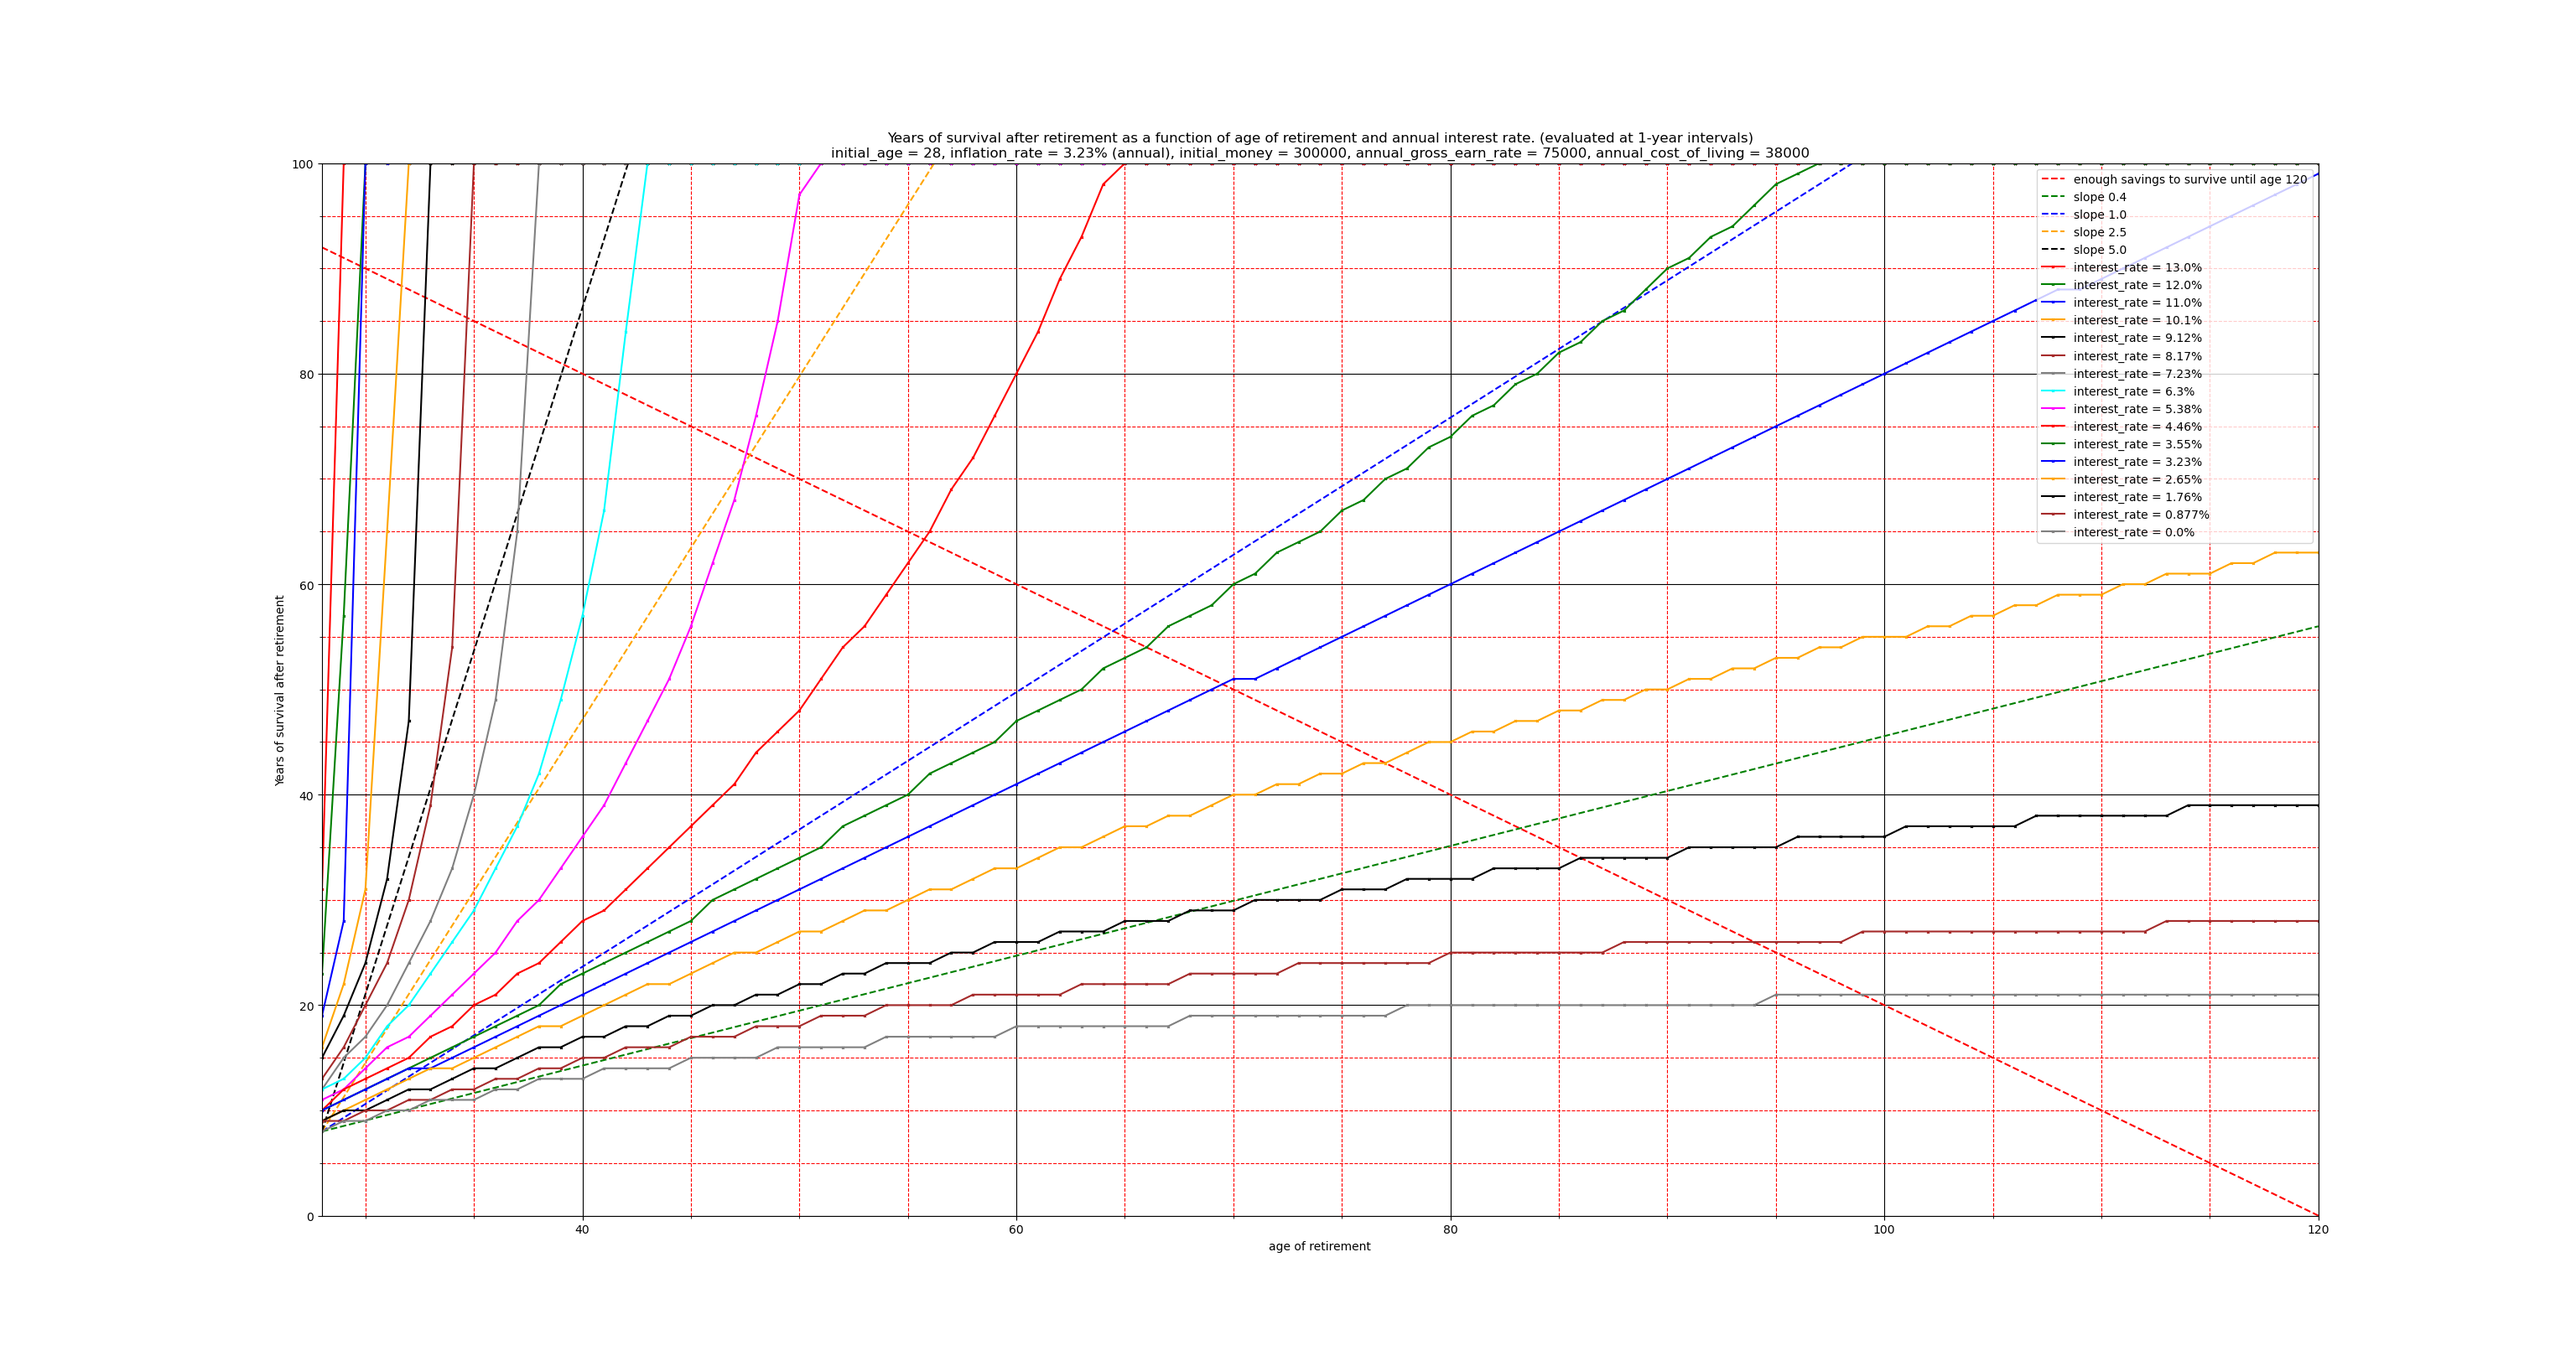
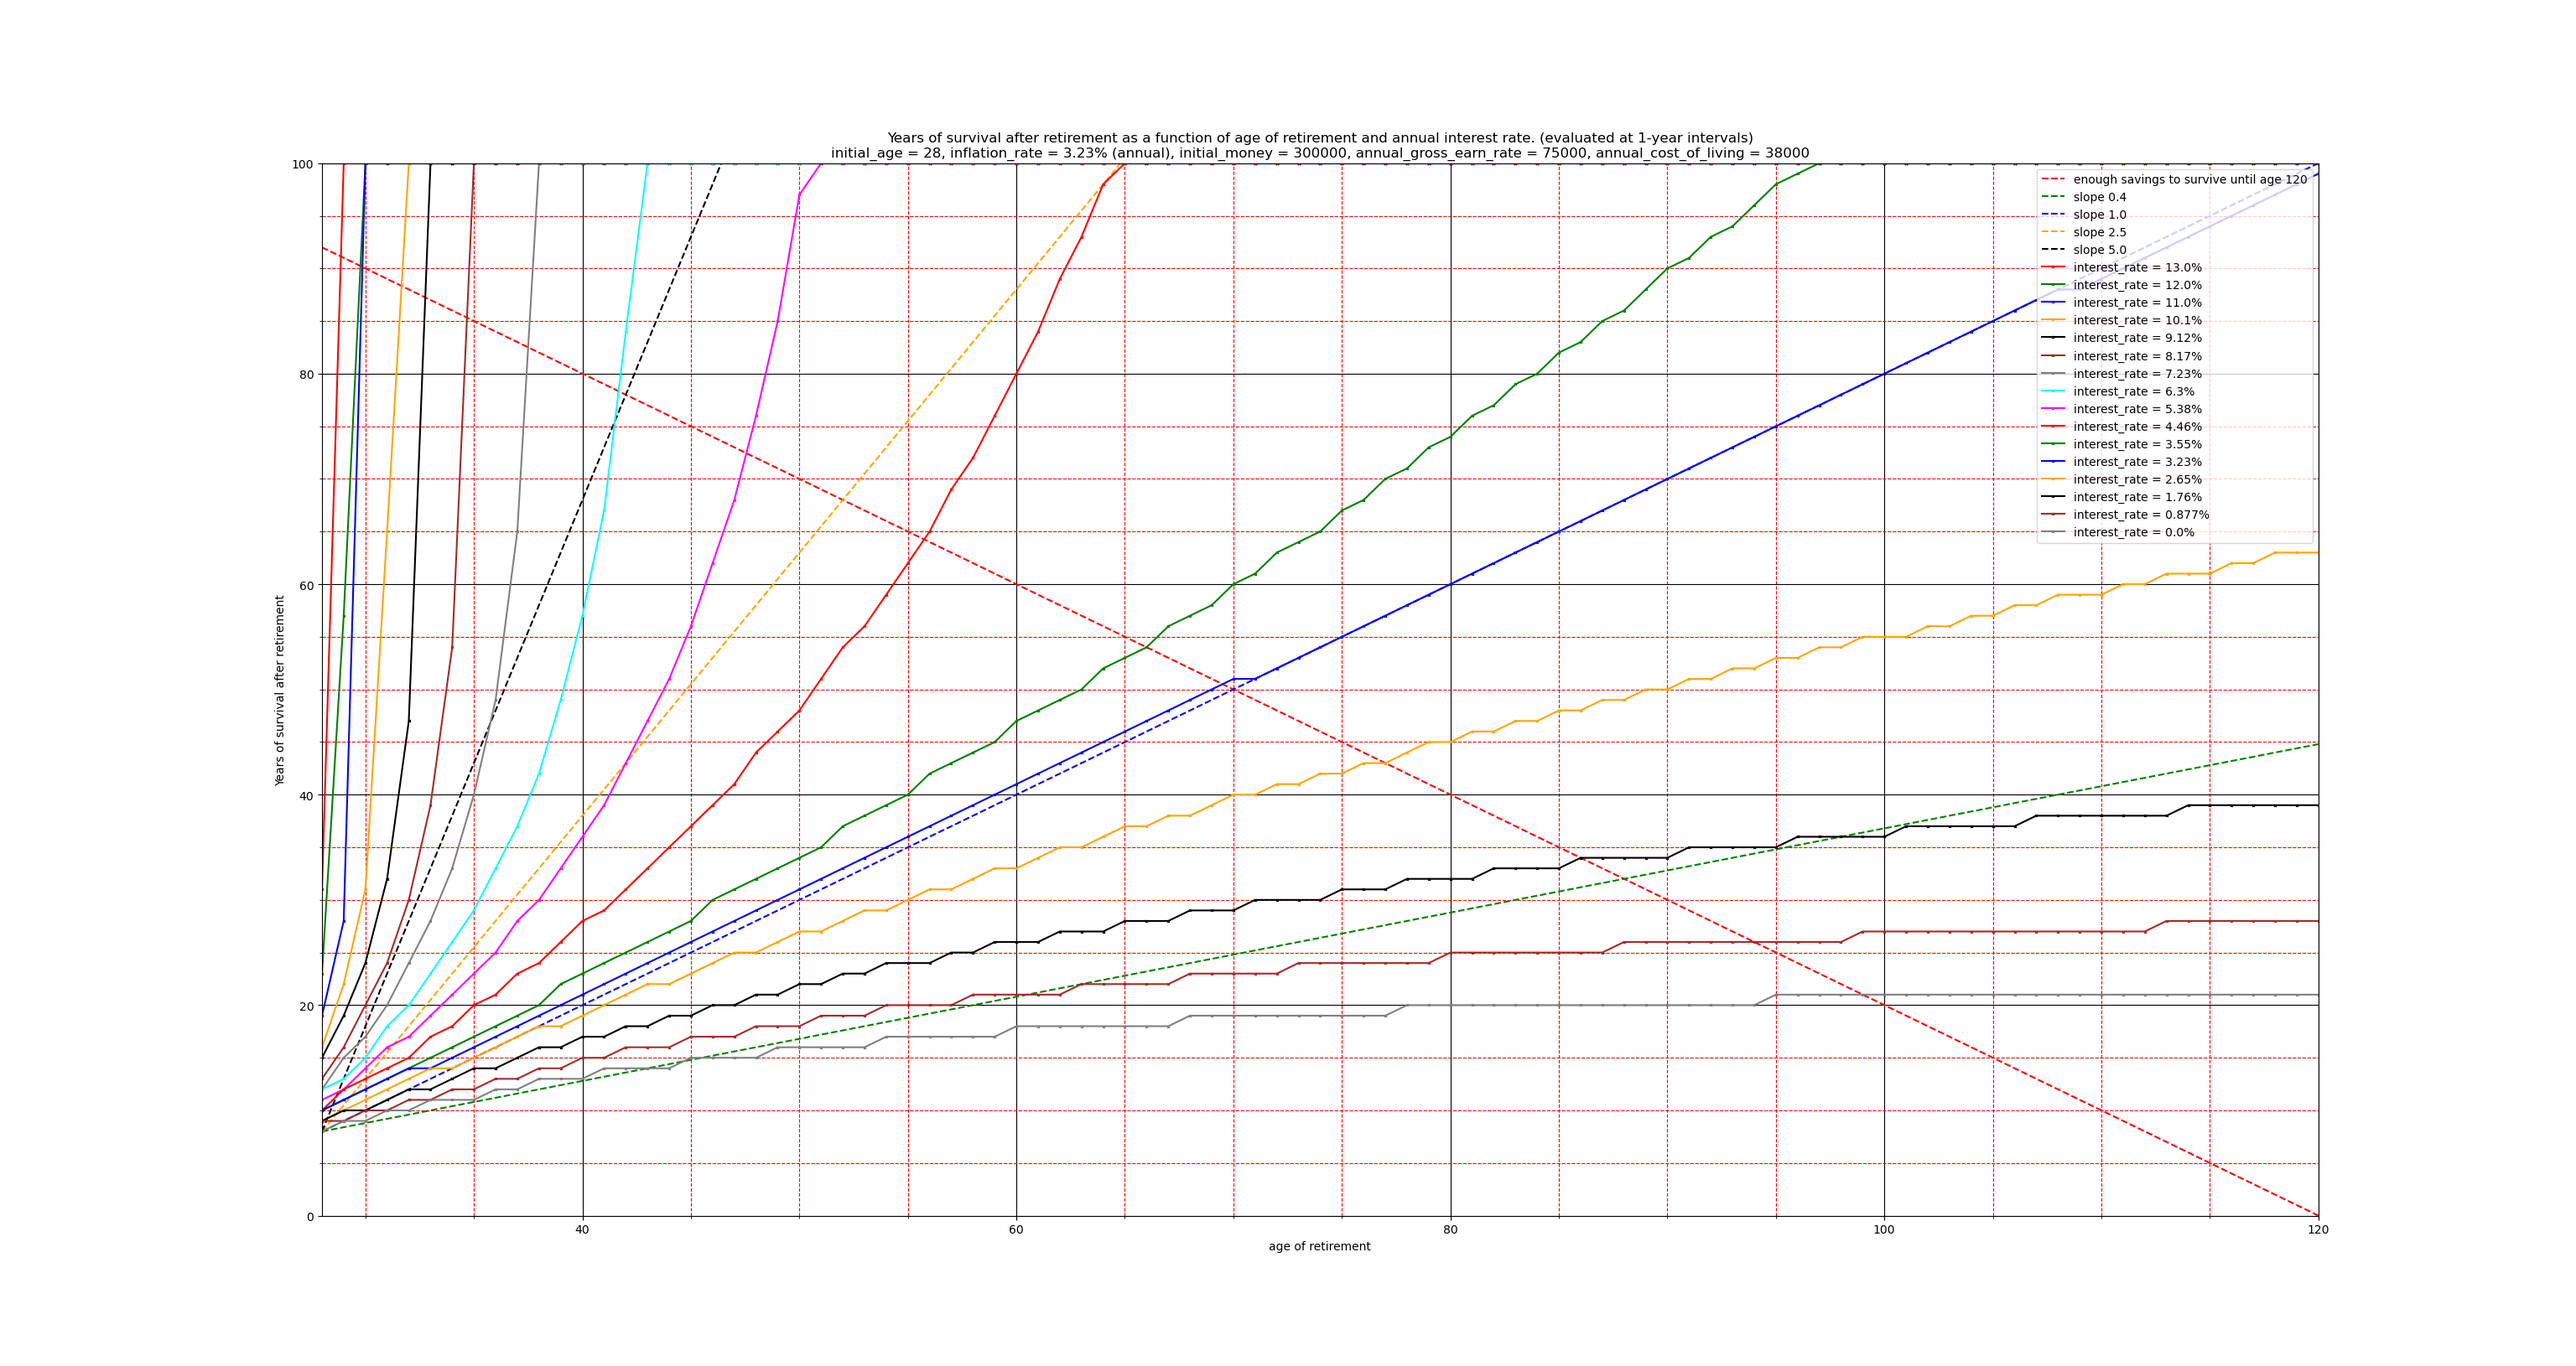
fixing mistake

Changed region(s): [[0.125, 0.7975, 0.1562, 0.8282]]

diff --git a/num_years_survive_vs_age_of_retirement_and_interest_rate.py b/num_years_survive_vs_age_of_retirement_and_interest_rate.py
@@ -139,7 +139,7 @@ if __name__ == '__main__':
     plt.plot([initial_age, likely_death_age], [likely_death_age-initial_age, 0], c=colors[0], marker=None, linestyle='--', label=f'enough savings to survive until age {likely_death_age}')
     for i_plot, slope in enumerate([2/5.0, 1.0, 5/2.0, 5/1.0]):
         # slope is years free / years worked
-        plt.plot([initial_age, likely_death_age], [8, 8 + slope * likely_death_age], c=colors[(i_plot+1)%len(colors)], marker=None, linestyle='--', label=f'slope {slope:.3}')
+        plt.plot([initial_age, likely_death_age], [8, 8 + slope * (likely_death_age - initial_age)], c=colors[(i_plot+1)%len(colors)], marker=None, linestyle='--', label=f'slope {slope:.3}')
 
     # siumulation setup
     interest_rates = np.geomspace(1, 1.13, 15)
